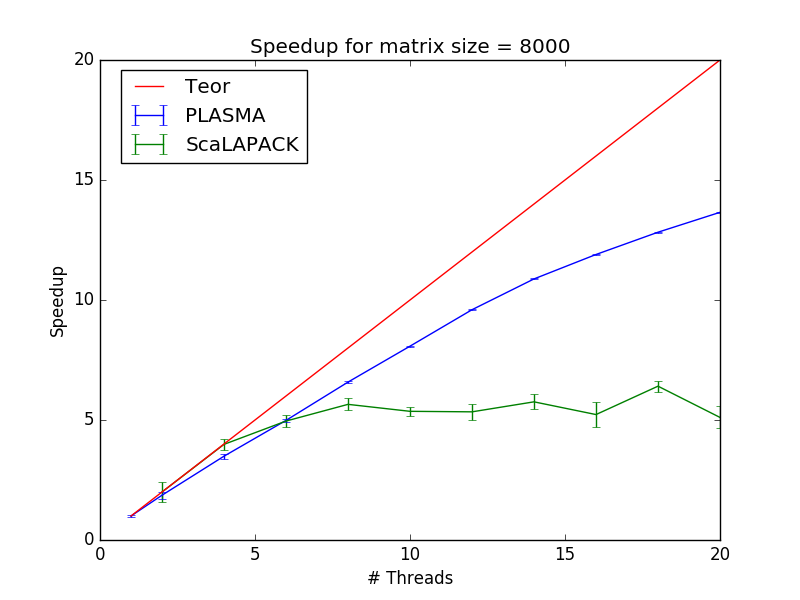
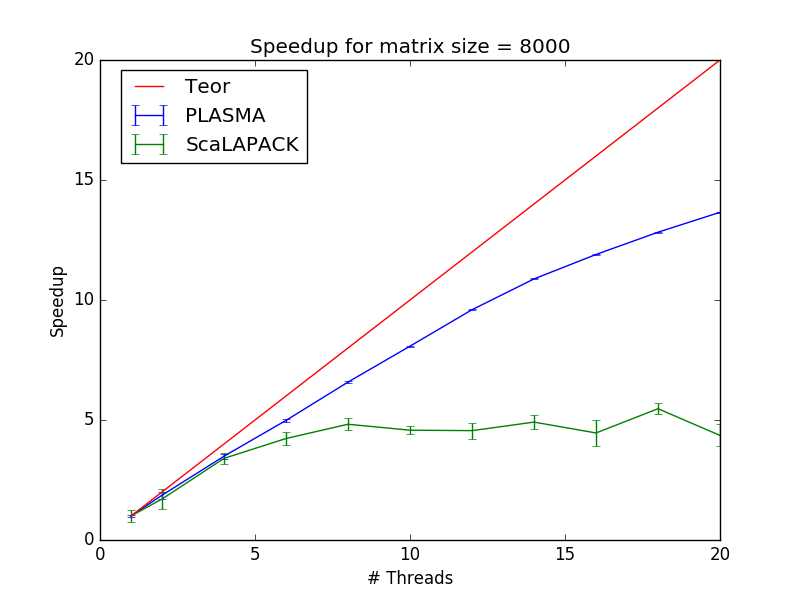
last commit (for today)

diff --git a/D2-exercise/provided_code/doplot.py b/D2-exercise/provided_code/doplot.py
@@ -1,7 +1,7 @@
 import numpy as np
 import matplotlib.pyplot as plt
 
-data  = np.loadtxt("plasma_timing.dat")
+data  = np.loadtxt("plasma_timing.safe")
 ndata = np.loadtxt("scaling_timing.dat")
 
 size_m = data[:,0]
@@ -12,12 +12,12 @@ lvec   = len(data) / rep
 
 s  = np.zeros(lvec)
 t  = np.zeros(lvec)
-nt = np.zeros(lvec - 1)
+nt = np.zeros(lvec)
 
 err = np.zeros(lvec)
-nerr = np.zeros(lvec - 1)
+nerr = np.zeros(lvec)
 speedup  = np.zeros(lvec)
-nspeedup = np.zeros(lvec - 1)
+nspeedup = np.zeros(lvec)
 
 i = 0
 j = 0
@@ -28,15 +28,13 @@ n_tmp = 0.
 while i < len(sec):
     while j < rep:
         t_tmp += sec[i + j]
-        if i > 0:
-            n_tmp += nsec[i + j - rep]
+        n_tmp += nsec[i + j - rep]
         j += 1
 
 
     s[count] = size_m[i]
     t[count] = t_tmp / rep
-    if i > 0:
-        nt[count - 1] = n_tmp / rep
+    nt[count - 1] = n_tmp / rep
     
     t_tmp = 0.
     n_tmp = 0.
@@ -44,13 +42,11 @@ while i < len(sec):
 
     while j < rep:
         t_tmp += (sec[i + j] - t[count])**2
-        if i > 0:
-            n_tmp += (nsec[i + j - rep] - nt[count - 1])**2
+        n_tmp += (nsec[i + j - rep] - nt[count - 1])**2
         j += 1
 
     err[count] = (t_tmp / (rep - 1.))**0.5
-    if i > 0:
-        nerr[count - 1] = (n_tmp / (rep - 1.))**0.5
+    nerr[count - 1] = (n_tmp / (rep - 1.))**0.5
     
     t_tmp = 0.
     n_tmp = 0.
@@ -59,13 +55,11 @@ while i < len(sec):
     j = 0
 
 speedup  = t[0] / t
-# We have to multiply by factor 2 to allow comparison with PLASMA data
-# (supposing a linear scaling for NP = 2)
-nspeedup = 2. * nt[0] / nt
+nspeedup = nt[0] / nt
 
 plt.figure()
 plt.errorbar(s, speedup, yerr=err, label = 'PLASMA')
-plt.errorbar(s[1:], nspeedup, yerr=nerr, label = 'ScaLAPACK')
+plt.errorbar(s, nspeedup, yerr=nerr, label = 'ScaLAPACK')
 plt.plot(s, s, label = 'Teor')
 plt.title('Speedup for matrix size = 8000')
 plt.xlabel('# Threads')
